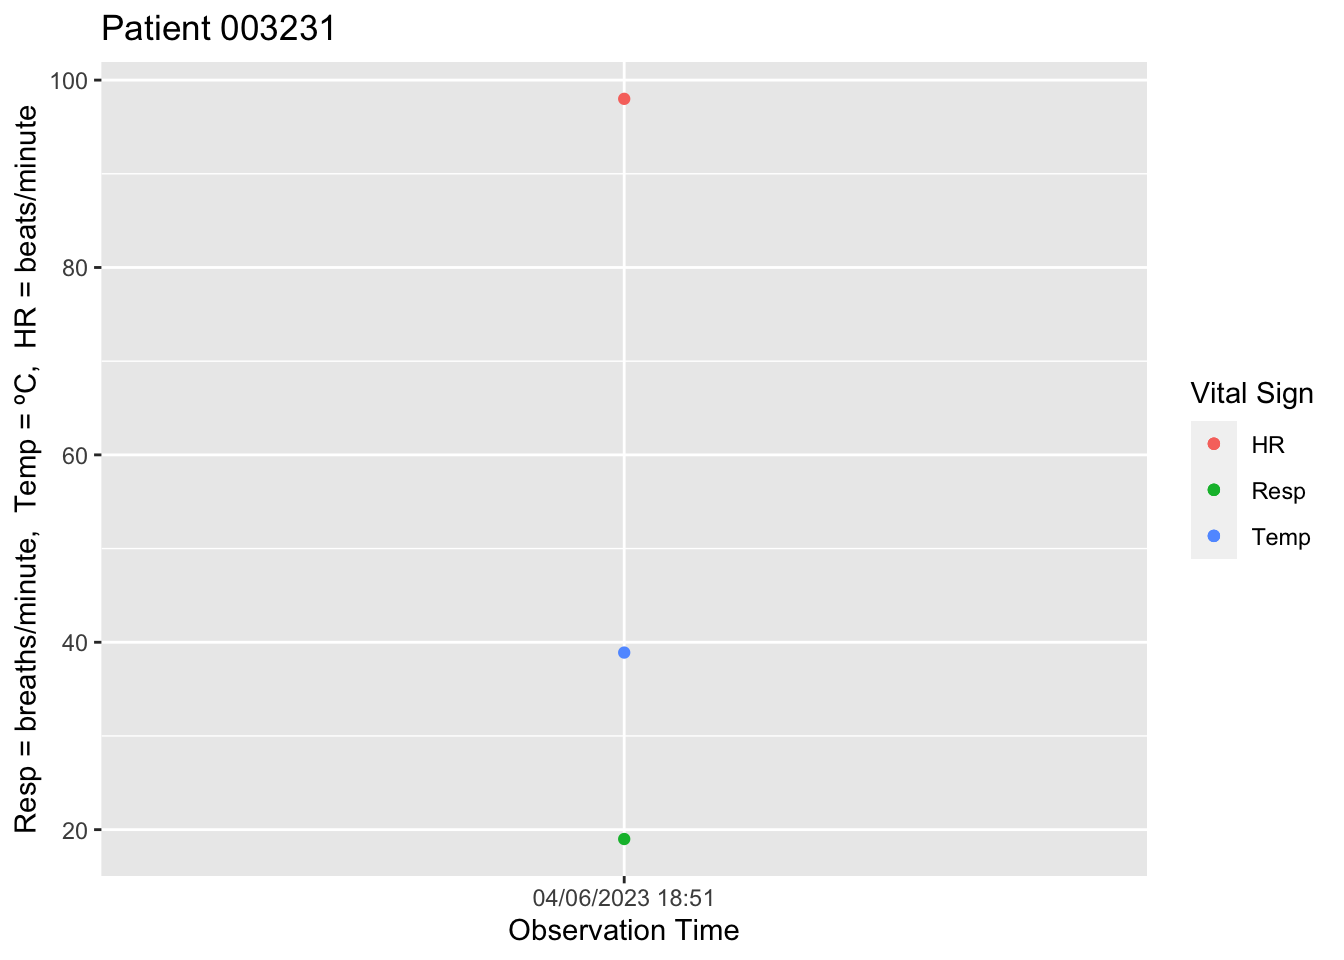
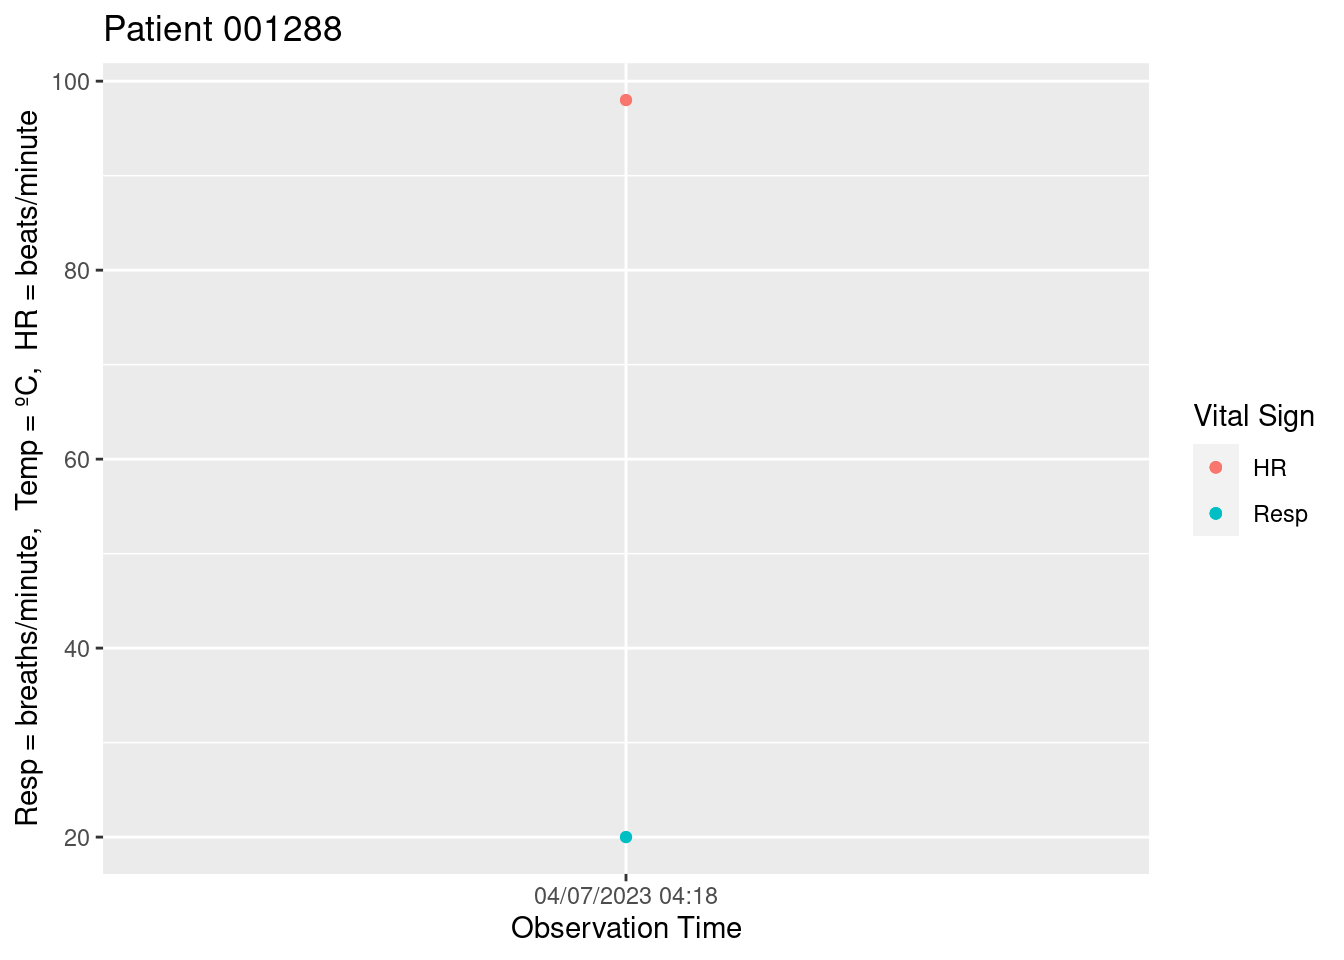
Updated report

diff --git a/Assignment-7.html b/Assignment-7.html
@@ -2,7 +2,7 @@
 <html xmlns="http://www.w3.org/1999/xhtml" lang="en" xml:lang="en"><head>
 
 <meta charset="utf-8">
-<meta name="generator" content="quarto-1.2.335">
+<meta name="generator" content="quarto-1.2.475">
 
 <meta name="viewport" content="width=device-width, initial-scale=1.0, user-scalable=yes">
 
@@ -139,8 +139,8 @@ code span.wa { color: #60a0b0; font-weight: bold; font-style: italic; } /* Warni
 
 <section id="assignment-7" class="level1">
 <h1>Assignment 7</h1>
-<section id="date-and-time-2023-04-06-172914" class="level3">
-<h3 class="anchored" data-anchor-id="date-and-time-2023-04-06-172914">Date and Time: 2023-04-06 17:29:14</h3>
+<section id="date-and-time-2023-04-07-042742" class="level3">
+<h3 class="anchored" data-anchor-id="date-and-time-2023-04-07-042742">Date and Time: 2023-04-07 04:27:42</h3>
 <div class="cell">
 <div class="sourceCode cell-code" id="cb1"><pre class="sourceCode r code-with-copy"><code class="sourceCode r"><span id="cb1-1"><a href="#cb1-1" aria-hidden="true" tabindex="-1"></a><span class="fu">source</span>(<span class="st">"sepsis_monitor_functions.R"</span>)</span>
 <span id="cb1-2"><a href="#cb1-2" aria-hidden="true" tabindex="-1"></a></span>
@@ -149,26 +149,23 @@ code span.wa { color: #60a0b0; font-weight: bold; font-style: italic; } /* Warni
 <span id="cb1-5"><a href="#cb1-5" aria-hidden="true" tabindex="-1"></a><span class="fu">library</span>(knitr)</span>
 <span id="cb1-6"><a href="#cb1-6" aria-hidden="true" tabindex="-1"></a><span class="fu">library</span>(ggplot2)</span>
 <span id="cb1-7"><a href="#cb1-7" aria-hidden="true" tabindex="-1"></a><span class="fu">library</span>(tidyverse)</span>
-<span id="cb1-8"><a href="#cb1-8" aria-hidden="true" tabindex="-1"></a><span class="fu">library</span>(data.table) <span class="do">## For the fread function</span></span>
-<span id="cb1-9"><a href="#cb1-9" aria-hidden="true" tabindex="-1"></a><span class="fu">library</span>(lubridate)</span>
-<span id="cb1-10"><a href="#cb1-10" aria-hidden="true" tabindex="-1"></a><span class="fu">library</span>(tictoc)</span>
-<span id="cb1-11"><a href="#cb1-11" aria-hidden="true" tabindex="-1"></a><span class="fu">library</span>(googledrive)</span>
+<span id="cb1-8"><a href="#cb1-8" aria-hidden="true" tabindex="-1"></a><span class="fu">library</span>(googledrive)</span>
+<span id="cb1-9"><a href="#cb1-9" aria-hidden="true" tabindex="-1"></a></span>
+<span id="cb1-10"><a href="#cb1-10" aria-hidden="true" tabindex="-1"></a><span class="fu">drive_deauth</span>()</span>
+<span id="cb1-11"><a href="#cb1-11" aria-hidden="true" tabindex="-1"></a>file_link <span class="ot">&lt;-</span> <span class="st">"https://drive.google.com/file/d/1-BqFL73u2z4Uq-bGZbmIfrpATnNr4ymu/view?usp=share_link"</span></span>
 <span id="cb1-12"><a href="#cb1-12" aria-hidden="true" tabindex="-1"></a></span>
-<span id="cb1-13"><a href="#cb1-13" aria-hidden="true" tabindex="-1"></a><span class="fu">drive_deauth</span>()</span>
-<span id="cb1-14"><a href="#cb1-14" aria-hidden="true" tabindex="-1"></a>file_link <span class="ot">&lt;-</span> <span class="st">"https://drive.google.com/file/d/1-BqFL73u2z4Uq-bGZbmIfrpATnNr4ymu/view?usp=share_link"</span></span>
+<span id="cb1-13"><a href="#cb1-13" aria-hidden="true" tabindex="-1"></a><span class="do">## All data up until now</span></span>
+<span id="cb1-14"><a href="#cb1-14" aria-hidden="true" tabindex="-1"></a>new_data <span class="ot">&lt;-</span> <span class="fu">updateData</span>(file_link)</span>
 <span id="cb1-15"><a href="#cb1-15" aria-hidden="true" tabindex="-1"></a></span>
-<span id="cb1-16"><a href="#cb1-16" aria-hidden="true" tabindex="-1"></a><span class="do">## All data up until now</span></span>
-<span id="cb1-17"><a href="#cb1-17" aria-hidden="true" tabindex="-1"></a>new_data <span class="ot">&lt;-</span> <span class="fu">updateData</span>(file_link)</span>
-<span id="cb1-18"><a href="#cb1-18" aria-hidden="true" tabindex="-1"></a></span>
-<span id="cb1-19"><a href="#cb1-19" aria-hidden="true" tabindex="-1"></a><span class="do">## Include only most recent data</span></span>
-<span id="cb1-20"><a href="#cb1-20" aria-hidden="true" tabindex="-1"></a>most_recent_data <span class="ot">&lt;-</span> new_data <span class="sc">%&gt;%</span></span>
-<span id="cb1-21"><a href="#cb1-21" aria-hidden="true" tabindex="-1"></a>  <span class="fu">group_by</span>(PatientID) <span class="sc">%&gt;%</span></span>
-<span id="cb1-22"><a href="#cb1-22" aria-hidden="true" tabindex="-1"></a>  <span class="fu">filter</span>(obsTime <span class="sc">==</span> <span class="fu">max</span>(obsTime))</span></code><button title="Copy to Clipboard" class="code-copy-button"><i class="bi"></i></button></pre></div>
+<span id="cb1-16"><a href="#cb1-16" aria-hidden="true" tabindex="-1"></a><span class="do">## Include only most recent data</span></span>
+<span id="cb1-17"><a href="#cb1-17" aria-hidden="true" tabindex="-1"></a>most_recent_data <span class="ot">&lt;-</span> new_data <span class="sc">%&gt;%</span></span>
+<span id="cb1-18"><a href="#cb1-18" aria-hidden="true" tabindex="-1"></a>  <span class="fu">group_by</span>(PatientID) <span class="sc">%&gt;%</span></span>
+<span id="cb1-19"><a href="#cb1-19" aria-hidden="true" tabindex="-1"></a>  <span class="fu">filter</span>(obsTime <span class="sc">==</span> <span class="fu">max</span>(obsTime))</span></code><button title="Copy to Clipboard" class="code-copy-button"><i class="bi"></i></button></pre></div>
 </div>
 <p>The patients we will look at in this report include the last 50 observations from the time the report was started, indicated above. This includes 50 patients recently in the ICU. Of those 50 patients, 2 have sepsis at the time of this report. We will start by looking at the vitals of patients who currently have sepsis.</p>
 </section>
-<section id="table-1-most-recent-vital-signs-of-patients-in-the-icu-with-sepsis" class="level3">
-<h3 class="anchored" data-anchor-id="table-1-most-recent-vital-signs-of-patients-in-the-icu-with-sepsis">Table 1: Most recent vital signs of patients in the ICU with sepsis</h3>
+<section id="table-1-most-recent-vital-signs-of-patients-with-sepsis-in-the-icu" class="level3">
+<h3 class="anchored" data-anchor-id="table-1-most-recent-vital-signs-of-patients-with-sepsis-in-the-icu">Table 1: Most recent vital signs of patients with sepsis in the ICU</h3>
 <div class="cell">
 <div class="sourceCode cell-code" id="cb2"><pre class="sourceCode r code-with-copy"><code class="sourceCode r"><span id="cb2-1"><a href="#cb2-1" aria-hidden="true" tabindex="-1"></a>sepsis_pts <span class="ot">&lt;-</span> <span class="fu">subset</span>(most_recent_data, SepsisLabel<span class="sc">==</span><span class="dv">1</span>)</span>
 <span id="cb2-2"><a href="#cb2-2" aria-hidden="true" tabindex="-1"></a></span>
@@ -187,15 +184,27 @@ code span.wa { color: #60a0b0; font-weight: bold; font-style: italic; } /* Warni
 </thead>
 <tbody>
 <tr class="odd">
+<td style="text-align: left;">001288</td>
+<td style="text-align: right;">98</td>
+<td style="text-align: right;">NA</td>
+<td style="text-align: right;">20</td>
+</tr>
+<tr class="even">
 <td style="text-align: left;">003231</td>
 <td style="text-align: right;">98</td>
-<td style="text-align: right;">38.90</td>
+<td style="text-align: right;">38.9</td>
 <td style="text-align: right;">19</td>
+</tr>
+<tr class="odd">
+<td style="text-align: left;">007128</td>
+<td style="text-align: right;">103</td>
+<td style="text-align: right;">NA</td>
+<td style="text-align: right;">18</td>
 </tr>
 <tr class="even">
 <td style="text-align: left;">009145</td>
-<td style="text-align: right;">120</td>
-<td style="text-align: right;">39.56</td>
+<td style="text-align: right;">115</td>
+<td style="text-align: right;">NA</td>
 <td style="text-align: right;">20</td>
 </tr>
 </tbody>
@@ -230,23 +239,37 @@ code span.wa { color: #60a0b0; font-weight: bold; font-style: italic; } /* Warni
 <div class="cell-output-display">
 <p><img src="Assignment-7_files/figure-html/unnamed-chunk-3-2.png" class="img-fluid" width="672"></p>
 </div>
+<div class="cell-output cell-output-stdout">
+<pre><code>
+[[3]]</code></pre>
+</div>
+<div class="cell-output-display">
+<p><img src="Assignment-7_files/figure-html/unnamed-chunk-3-3.png" class="img-fluid" width="672"></p>
+</div>
+<div class="cell-output cell-output-stdout">
+<pre><code>
+[[4]]</code></pre>
+</div>
+<div class="cell-output-display">
+<p><img src="Assignment-7_files/figure-html/unnamed-chunk-3-4.png" class="img-fluid" width="672"></p>
+</div>
 </div>
 </section>
 <section id="table-2-recent-change-in-vital-signs" class="level3">
 <h3 class="anchored" data-anchor-id="table-2-recent-change-in-vital-signs">Table 2: Recent Change in Vital Signs</h3>
 <div class="cell">
-<div class="sourceCode cell-code" id="cb6"><pre class="sourceCode r code-with-copy"><code class="sourceCode r"><span id="cb6-1"><a href="#cb6-1" aria-hidden="true" tabindex="-1"></a>sepsis_pts <span class="ot">&lt;-</span> <span class="fu">subset</span>(new_data, SepsisLabel<span class="sc">==</span><span class="dv">1</span>)</span>
-<span id="cb6-2"><a href="#cb6-2" aria-hidden="true" tabindex="-1"></a></span>
-<span id="cb6-3"><a href="#cb6-3" aria-hidden="true" tabindex="-1"></a>sepsis_pts <span class="sc">%&gt;%</span></span>
-<span id="cb6-4"><a href="#cb6-4" aria-hidden="true" tabindex="-1"></a>  <span class="fu">group_by</span>(PatientID) <span class="sc">%&gt;%</span></span>
-<span id="cb6-5"><a href="#cb6-5" aria-hidden="true" tabindex="-1"></a>  <span class="fu">arrange</span>(obsTime) <span class="sc">%&gt;%</span></span>
-<span id="cb6-6"><a href="#cb6-6" aria-hidden="true" tabindex="-1"></a>  <span class="fu">mutate</span>(<span class="at">prevHR =</span> <span class="fu">lag</span>(HR), <span class="at">prevTemp =</span> <span class="fu">lag</span>(Temp), <span class="at">prevResp =</span> <span class="fu">lag</span>(Resp)) <span class="sc">%&gt;%</span></span>
-<span id="cb6-7"><a href="#cb6-7" aria-hidden="true" tabindex="-1"></a>  <span class="fu">summarise</span>(</span>
-<span id="cb6-8"><a href="#cb6-8" aria-hidden="true" tabindex="-1"></a>    <span class="st">`</span><span class="at">Change in Heart Rate (bpm)</span><span class="st">`</span> <span class="ot">=</span> <span class="fu">last</span>(HR) <span class="sc">-</span> <span class="fu">last</span>(prevHR),</span>
-<span id="cb6-9"><a href="#cb6-9" aria-hidden="true" tabindex="-1"></a>    <span class="st">`</span><span class="at">Change in Temp (ºC)</span><span class="st">`</span> <span class="ot">=</span> <span class="fu">last</span>(Temp) <span class="sc">-</span> <span class="fu">last</span>(prevTemp),</span>
-<span id="cb6-10"><a href="#cb6-10" aria-hidden="true" tabindex="-1"></a>    <span class="st">`</span><span class="at">Change in Resp Rate (rpm)</span><span class="st">`</span> <span class="ot">=</span> <span class="fu">last</span>(Resp) <span class="sc">-</span> <span class="fu">last</span>(prevResp)</span>
-<span id="cb6-11"><a href="#cb6-11" aria-hidden="true" tabindex="-1"></a>  ) <span class="sc">%&gt;%</span></span>
-<span id="cb6-12"><a href="#cb6-12" aria-hidden="true" tabindex="-1"></a>  <span class="fu">kable</span>()</span></code><button title="Copy to Clipboard" class="code-copy-button"><i class="bi"></i></button></pre></div>
+<div class="sourceCode cell-code" id="cb8"><pre class="sourceCode r code-with-copy"><code class="sourceCode r"><span id="cb8-1"><a href="#cb8-1" aria-hidden="true" tabindex="-1"></a>sepsis_pts <span class="ot">&lt;-</span> <span class="fu">subset</span>(new_data, SepsisLabel<span class="sc">==</span><span class="dv">1</span>)</span>
+<span id="cb8-2"><a href="#cb8-2" aria-hidden="true" tabindex="-1"></a></span>
+<span id="cb8-3"><a href="#cb8-3" aria-hidden="true" tabindex="-1"></a>sepsis_pts <span class="sc">%&gt;%</span></span>
+<span id="cb8-4"><a href="#cb8-4" aria-hidden="true" tabindex="-1"></a>  <span class="fu">group_by</span>(PatientID) <span class="sc">%&gt;%</span></span>
+<span id="cb8-5"><a href="#cb8-5" aria-hidden="true" tabindex="-1"></a>  <span class="fu">arrange</span>(obsTime) <span class="sc">%&gt;%</span></span>
+<span id="cb8-6"><a href="#cb8-6" aria-hidden="true" tabindex="-1"></a>  <span class="fu">mutate</span>(<span class="at">prevHR =</span> <span class="fu">lag</span>(HR), <span class="at">prevTemp =</span> <span class="fu">lag</span>(Temp), <span class="at">prevResp =</span> <span class="fu">lag</span>(Resp)) <span class="sc">%&gt;%</span></span>
+<span id="cb8-7"><a href="#cb8-7" aria-hidden="true" tabindex="-1"></a>  <span class="fu">summarise</span>(</span>
+<span id="cb8-8"><a href="#cb8-8" aria-hidden="true" tabindex="-1"></a>    <span class="st">`</span><span class="at">Change in Heart Rate (bpm)</span><span class="st">`</span> <span class="ot">=</span> <span class="fu">last</span>(HR) <span class="sc">-</span> <span class="fu">last</span>(prevHR),</span>
+<span id="cb8-9"><a href="#cb8-9" aria-hidden="true" tabindex="-1"></a>    <span class="st">`</span><span class="at">Change in Temp (ºC)</span><span class="st">`</span> <span class="ot">=</span> <span class="fu">last</span>(Temp) <span class="sc">-</span> <span class="fu">last</span>(prevTemp),</span>
+<span id="cb8-10"><a href="#cb8-10" aria-hidden="true" tabindex="-1"></a>    <span class="st">`</span><span class="at">Change in Resp Rate (rpm)</span><span class="st">`</span> <span class="ot">=</span> <span class="fu">last</span>(Resp) <span class="sc">-</span> <span class="fu">last</span>(prevResp)</span>
+<span id="cb8-11"><a href="#cb8-11" aria-hidden="true" tabindex="-1"></a>  ) <span class="sc">%&gt;%</span></span>
+<span id="cb8-12"><a href="#cb8-12" aria-hidden="true" tabindex="-1"></a>  <span class="fu">kable</span>()</span></code><button title="Copy to Clipboard" class="code-copy-button"><i class="bi"></i></button></pre></div>
 <div class="cell-output-display">
 <table class="table table-sm table-striped">
 <colgroup>
@@ -265,16 +288,28 @@ code span.wa { color: #60a0b0; font-weight: bold; font-style: italic; } /* Warni
 </thead>
 <tbody>
 <tr class="odd">
+<td style="text-align: left;">001288</td>
+<td style="text-align: right;">-4</td>
+<td style="text-align: right;">NA</td>
+<td style="text-align: right;">0</td>
+</tr>
+<tr class="even">
 <td style="text-align: left;">003231</td>
 <td style="text-align: right;">-1</td>
 <td style="text-align: right;">-0.1</td>
 <td style="text-align: right;">1</td>
 </tr>
+<tr class="odd">
+<td style="text-align: left;">007128</td>
+<td style="text-align: right;">-4</td>
+<td style="text-align: right;">NA</td>
+<td style="text-align: right;">0</td>
+</tr>
 <tr class="even">
 <td style="text-align: left;">009145</td>
-<td style="text-align: right;">1</td>
+<td style="text-align: right;">-5</td>
 <td style="text-align: right;">NA</td>
-<td style="text-align: right;">1</td>
+<td style="text-align: right;">0</td>
 </tr>
 </tbody>
 </table>
